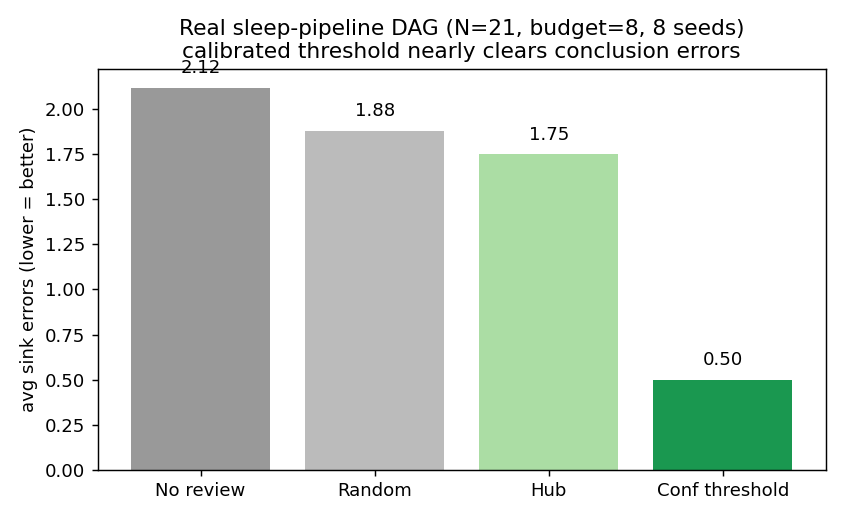
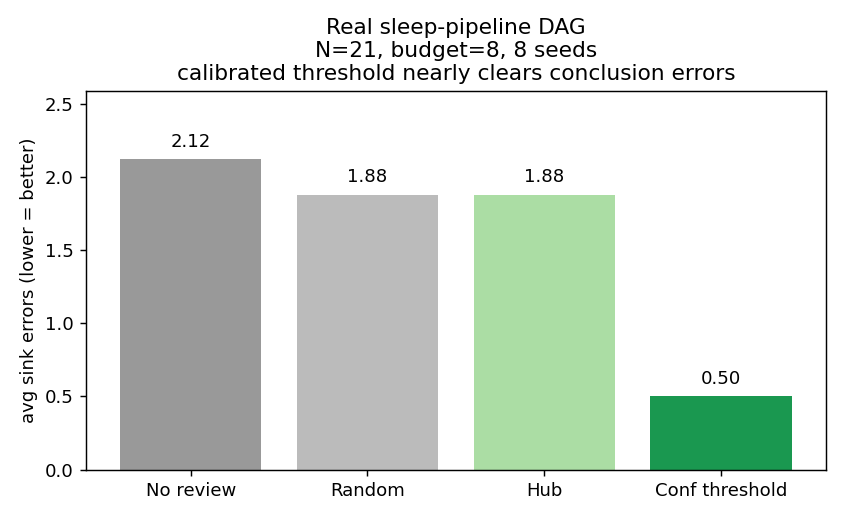
fix(exp): derive the real-pipeline figure from the result table
The bar values were hardcoded, so the figure still showed the withdrawn hub
value 1.75 after the edge-counting fix. plot_real_pipeline.py now reads
real_pipeline_table.md, which real_pipeline_graph.py writes, and fails loudly
if a row is missing. Bars: 2.12 / 1.88 / 1.88 / 0.50. Also corrected the
budget comment: 8 of 21 nodes, not 25% of 32.

diff --git a/experiments/plot_real_pipeline.py b/experiments/plot_real_pipeline.py
@@ -1,15 +1,45 @@
 #!/usr/bin/env python3
 # -*- coding: utf-8 -*-
-"""Real sleep-pipeline DAG results figure."""
+"""Real sleep-pipeline DAG results figure.
+
+Every number is read from `real_pipeline_table.md`, which
+`real_pipeline_graph.py` writes, so the figure cannot drift from the
+experiment. Run the experiment first, then this script.
+"""
 import os
+import re
+
 import matplotlib
 matplotlib.use("Agg")
 import matplotlib.pyplot as plt
 
 OUT = os.path.dirname(os.path.abspath(__file__))
+TABLE = os.path.join(OUT, "real_pipeline_table.md")
 
-policies = ["No review", "Random", "Hub", "Conf threshold"]
-vals = [2.12, 1.88, 1.75, 0.50]
+ORDER = ["no review", "random", "hub (children)", "conf threshold"]
+LABELS = {"no review": "No review", "random": "Random",
+          "hub (children)": "Hub", "conf threshold": "Conf threshold"}
+
+header = ""
+rows = {}
+with open(TABLE, encoding="utf-8") as fh:
+    for line in fh:
+        line = line.rstrip("\n")
+        if line and not header:
+            header = line
+        ikey = line.strip().strip("|").split("|")
+        if len(ikey) != 2:
+            continue
+        key, val = ikey[0].strip(), ikey[1].strip()
+        if key in LABELS:
+            rows[key] = float(val)
+
+missing = [k for k in ORDER if k not in rows]
+if missing:
+    raise SystemExit(f"{TABLE} is missing {missing}; run real_pipeline_graph.py first")
+
+policies = [LABELS[k] for k in ORDER]
+vals = [rows[k] for k in ORDER]
 colors = ["#999999", "#bbbbbb", "#abdda4", "#1a9850"]
 
 plt.figure(figsize=(6.5, 4))
@@ -18,9 +48,10 @@ for b, v in zip(bars, vals):
     plt.text(b.get_x() + b.get_width() / 2, v + 0.06, f"{v:.2f}",
              ha="center", va="bottom", fontsize=10)
 plt.ylabel("avg sink errors (lower = better)")
-plt.title("Real sleep-pipeline DAG (N=21, budget=8, 8 seeds)\n"
+plt.ylim(0, max(vals) * 1.22)
+plt.title(f"{header.replace('Real sleep-pipeline DAG ', 'Real sleep-pipeline DAG\n')}\n"
           "calibrated threshold nearly clears conclusion errors")
 plt.tight_layout()
 plt.savefig(os.path.join(OUT, "real_pipeline.png"), dpi=130)
 plt.close()
-print("saved real_pipeline.png")
+print("saved real_pipeline.png from", os.path.basename(TABLE), vals)

diff --git a/experiments/real_pipeline_graph.py b/experiments/real_pipeline_graph.py
@@ -17,7 +17,7 @@ import numpy as np
 
 N_SEEDS = 8
 P_CATCH = 0.9
-BUDGET = 8            # ~25% of 32 nodes
+BUDGET = 8            # 8 of 21 nodes (38%)
 LAMBDA = 0.9
 
 # ---- nodes (id, layer, type) -------------------------------------------------
